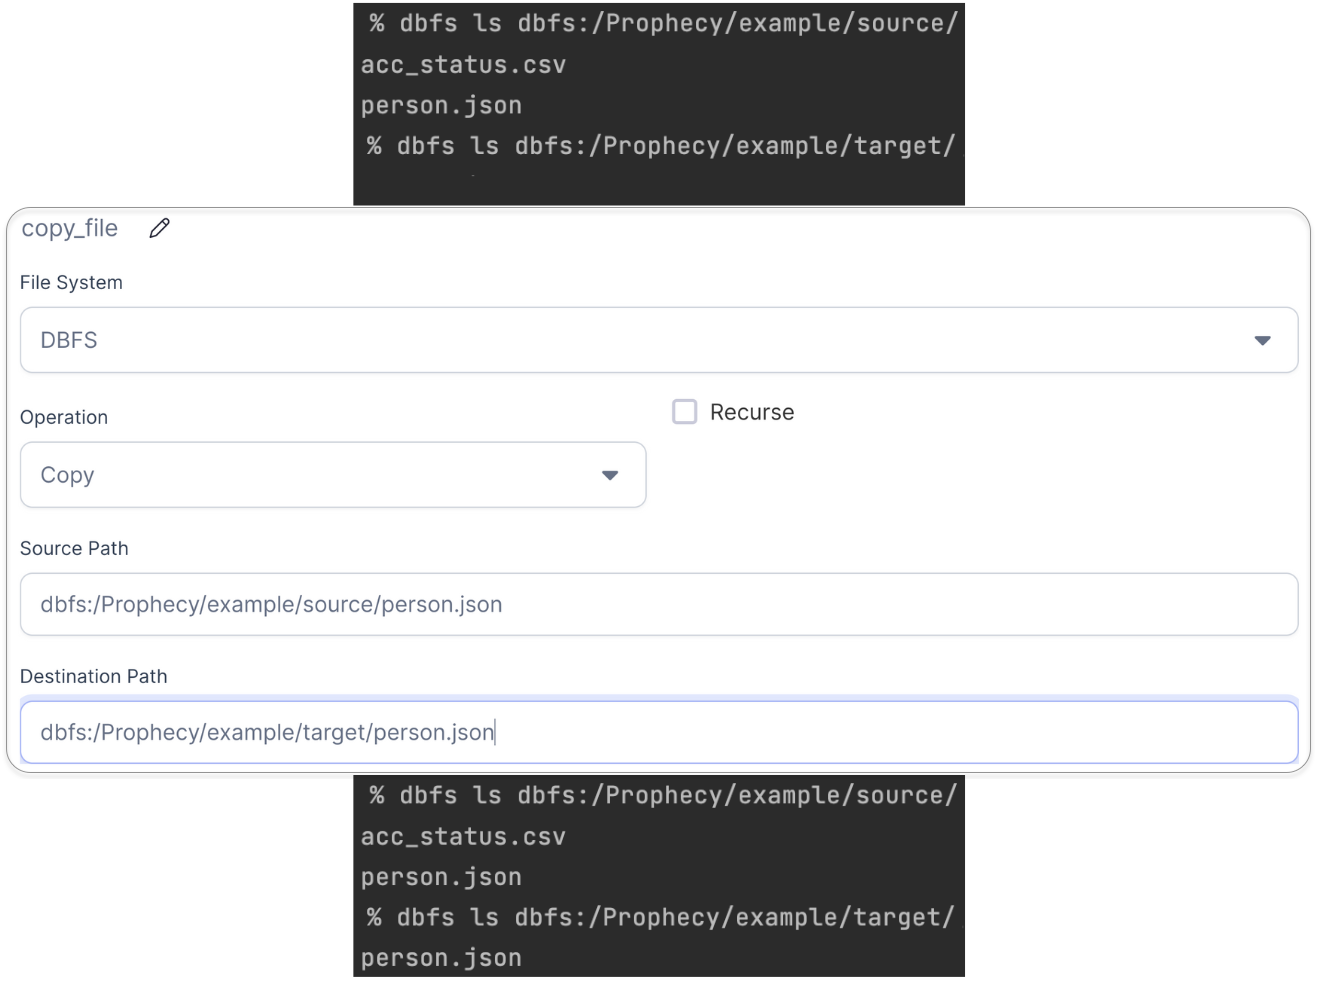
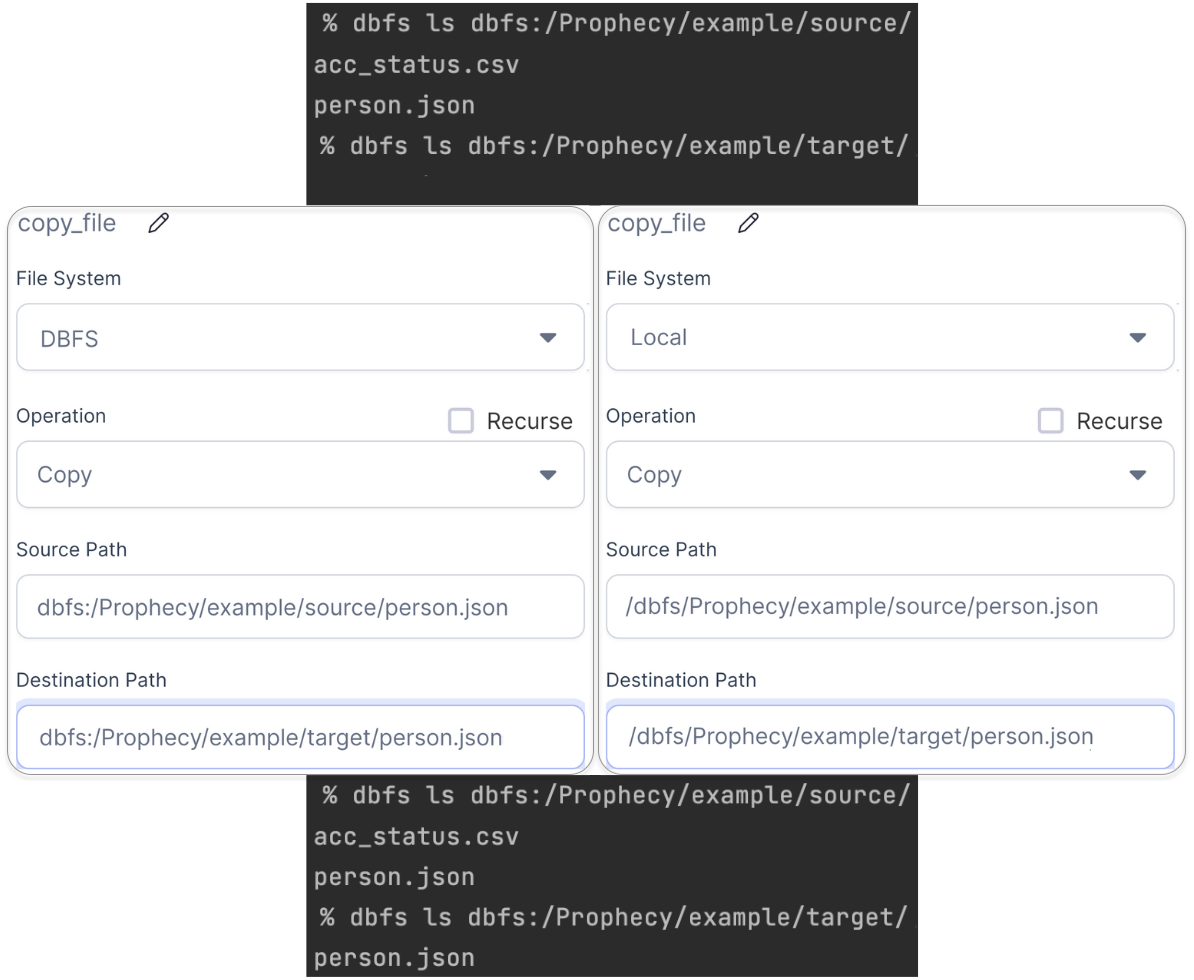
updated file ops doc

diff --git a/docs/05-low-code-spark/05-gems/04-custom/03-file-operation.md b/docs/05-low-code-spark/05-gems/04-custom/03-file-operation.md
@@ -33,7 +33,7 @@ import TabItem from '@theme/TabItem';
 
 <Tabs>
 
-<TabItem value="py" label="Python">
+<TabItem value="py" label="DBFS">
 
 ```py
 def copy_file(spark: SparkSession):
@@ -43,6 +43,17 @@ def copy_file(spark: SparkSession):
         "dbfs:/Prophecy/example/target/person.json",
         recurse = False
     )
+```
+
+</TabItem>
+<TabItem value="py2" label="Local">
+
+```py
+def copy_file(spark: SparkSession):
+    import os
+    import shutil
+    shutil.copy2("/dbfs/Prophecy/example/source/person.json",
+                 "/dbfs/Prophecy/example/target/person.json")
 ```
 
 </TabItem>
@@ -57,7 +68,7 @@ def copy_file(spark: SparkSession):
 ````mdx-code-block
 <Tabs>
 
-<TabItem value="py" label="Python">
+<TabItem value="py" label="DBFS">
 
 ```py
 def copy_file(spark: SparkSession):
@@ -66,6 +77,21 @@ def copy_file(spark: SparkSession):
         "dbfs:/Prophecy/example/source/",
         "dbfs:/Prophecy/example/target/",
         recurse = True
+    )
+```
+
+</TabItem>
+<TabItem value="py2" label="Local">
+
+```py
+def copy_file(spark: SparkSession):
+    import os
+    import shutil
+    shutil.copytree(
+        "/dbfs/Prophecy/example/source/",
+        "/dbfs/Prophecy/example/target/",
+        copy_function = shutil.copy2,
+        dirs_exist_ok = True
     )
 ```
 
@@ -81,15 +107,30 @@ def copy_file(spark: SparkSession):
 ````mdx-code-block
 <Tabs>
 
-<TabItem value="py" label="Python">
+<TabItem value="py" label="DBFS">
 
-```py
+```python
 def copy_file(spark: SparkSession):
     from pyspark.dbutils import DBUtils
     DBUtils(spark).fs.cp(
         "dbfs:/Prophecy/example/source/",
         "dbfs:/Prophecy/example/target/source",
         recurse = True
+    )
+```
+
+</TabItem>
+<TabItem value="py2" label="Local">
+
+```python
+def copy_file(spark: SparkSession):
+    import os
+    import shutil
+    shutil.copytree(
+        "/dbfs/Prophecy/example/source/",
+        "/dbfs/Prophecy/example/target/source",
+        copy_function = shutil.copy2,
+        dirs_exist_ok = True
     )
 ```
 
